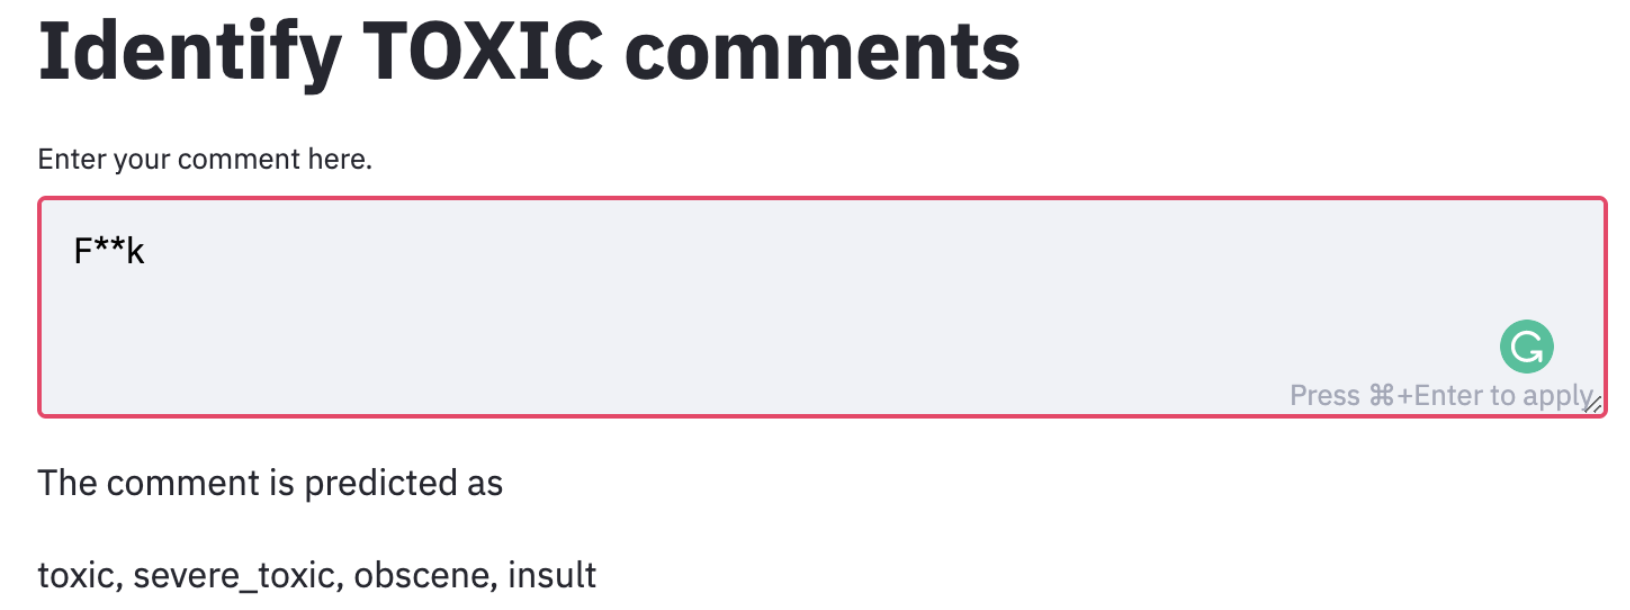
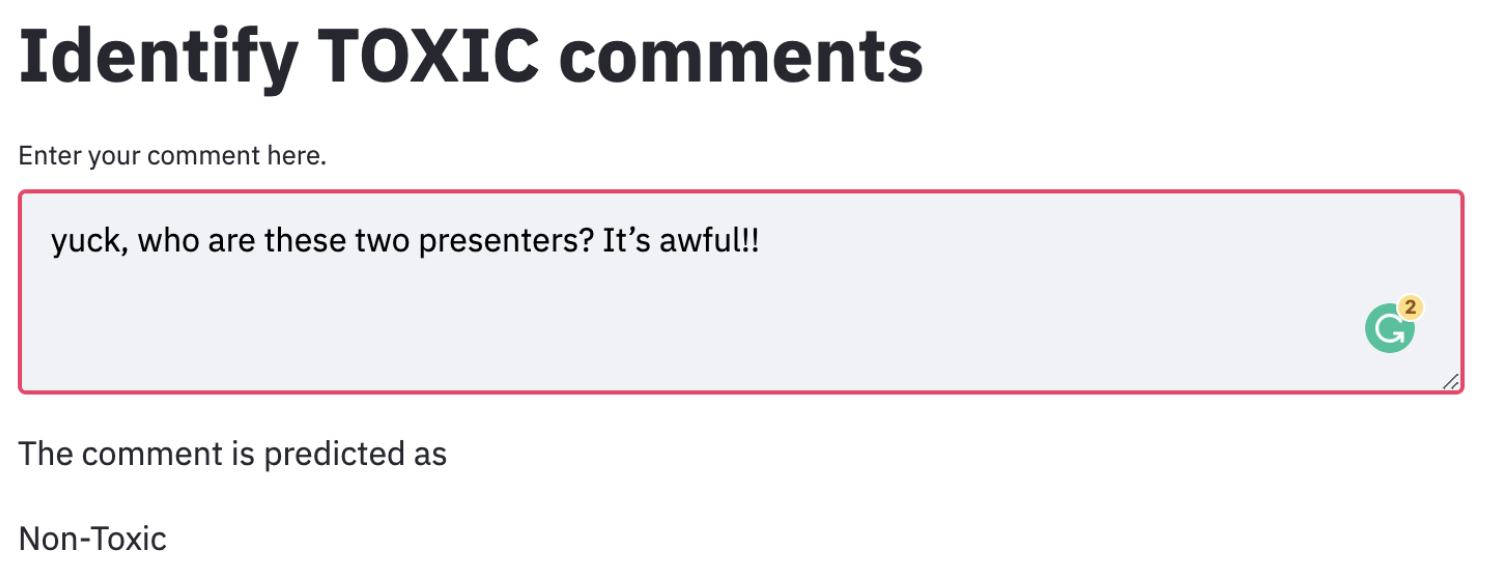
update

diff --git a/README.md b/README.md
@@ -46,8 +46,15 @@ We obtained 159,511 comments from Wikipedia’s talk page edits[1] with length 1
 - We created an interactive web application using streamlit and hosted on heroku.
 - The web app can be found http://toxcom.herokuapp.com/.
 
+An example of non-toxic comment on the webapp.
 ![Non-toxic comment](images/non-toxic.png)
+
+
+An example of intermediate comment on the webapp.
 ![Intermediate comment](images/intermediate.png)
+
+
+An example of Toxic comment on the webapp.
 ![Toxic comment](images/toxic.png)
 
 
